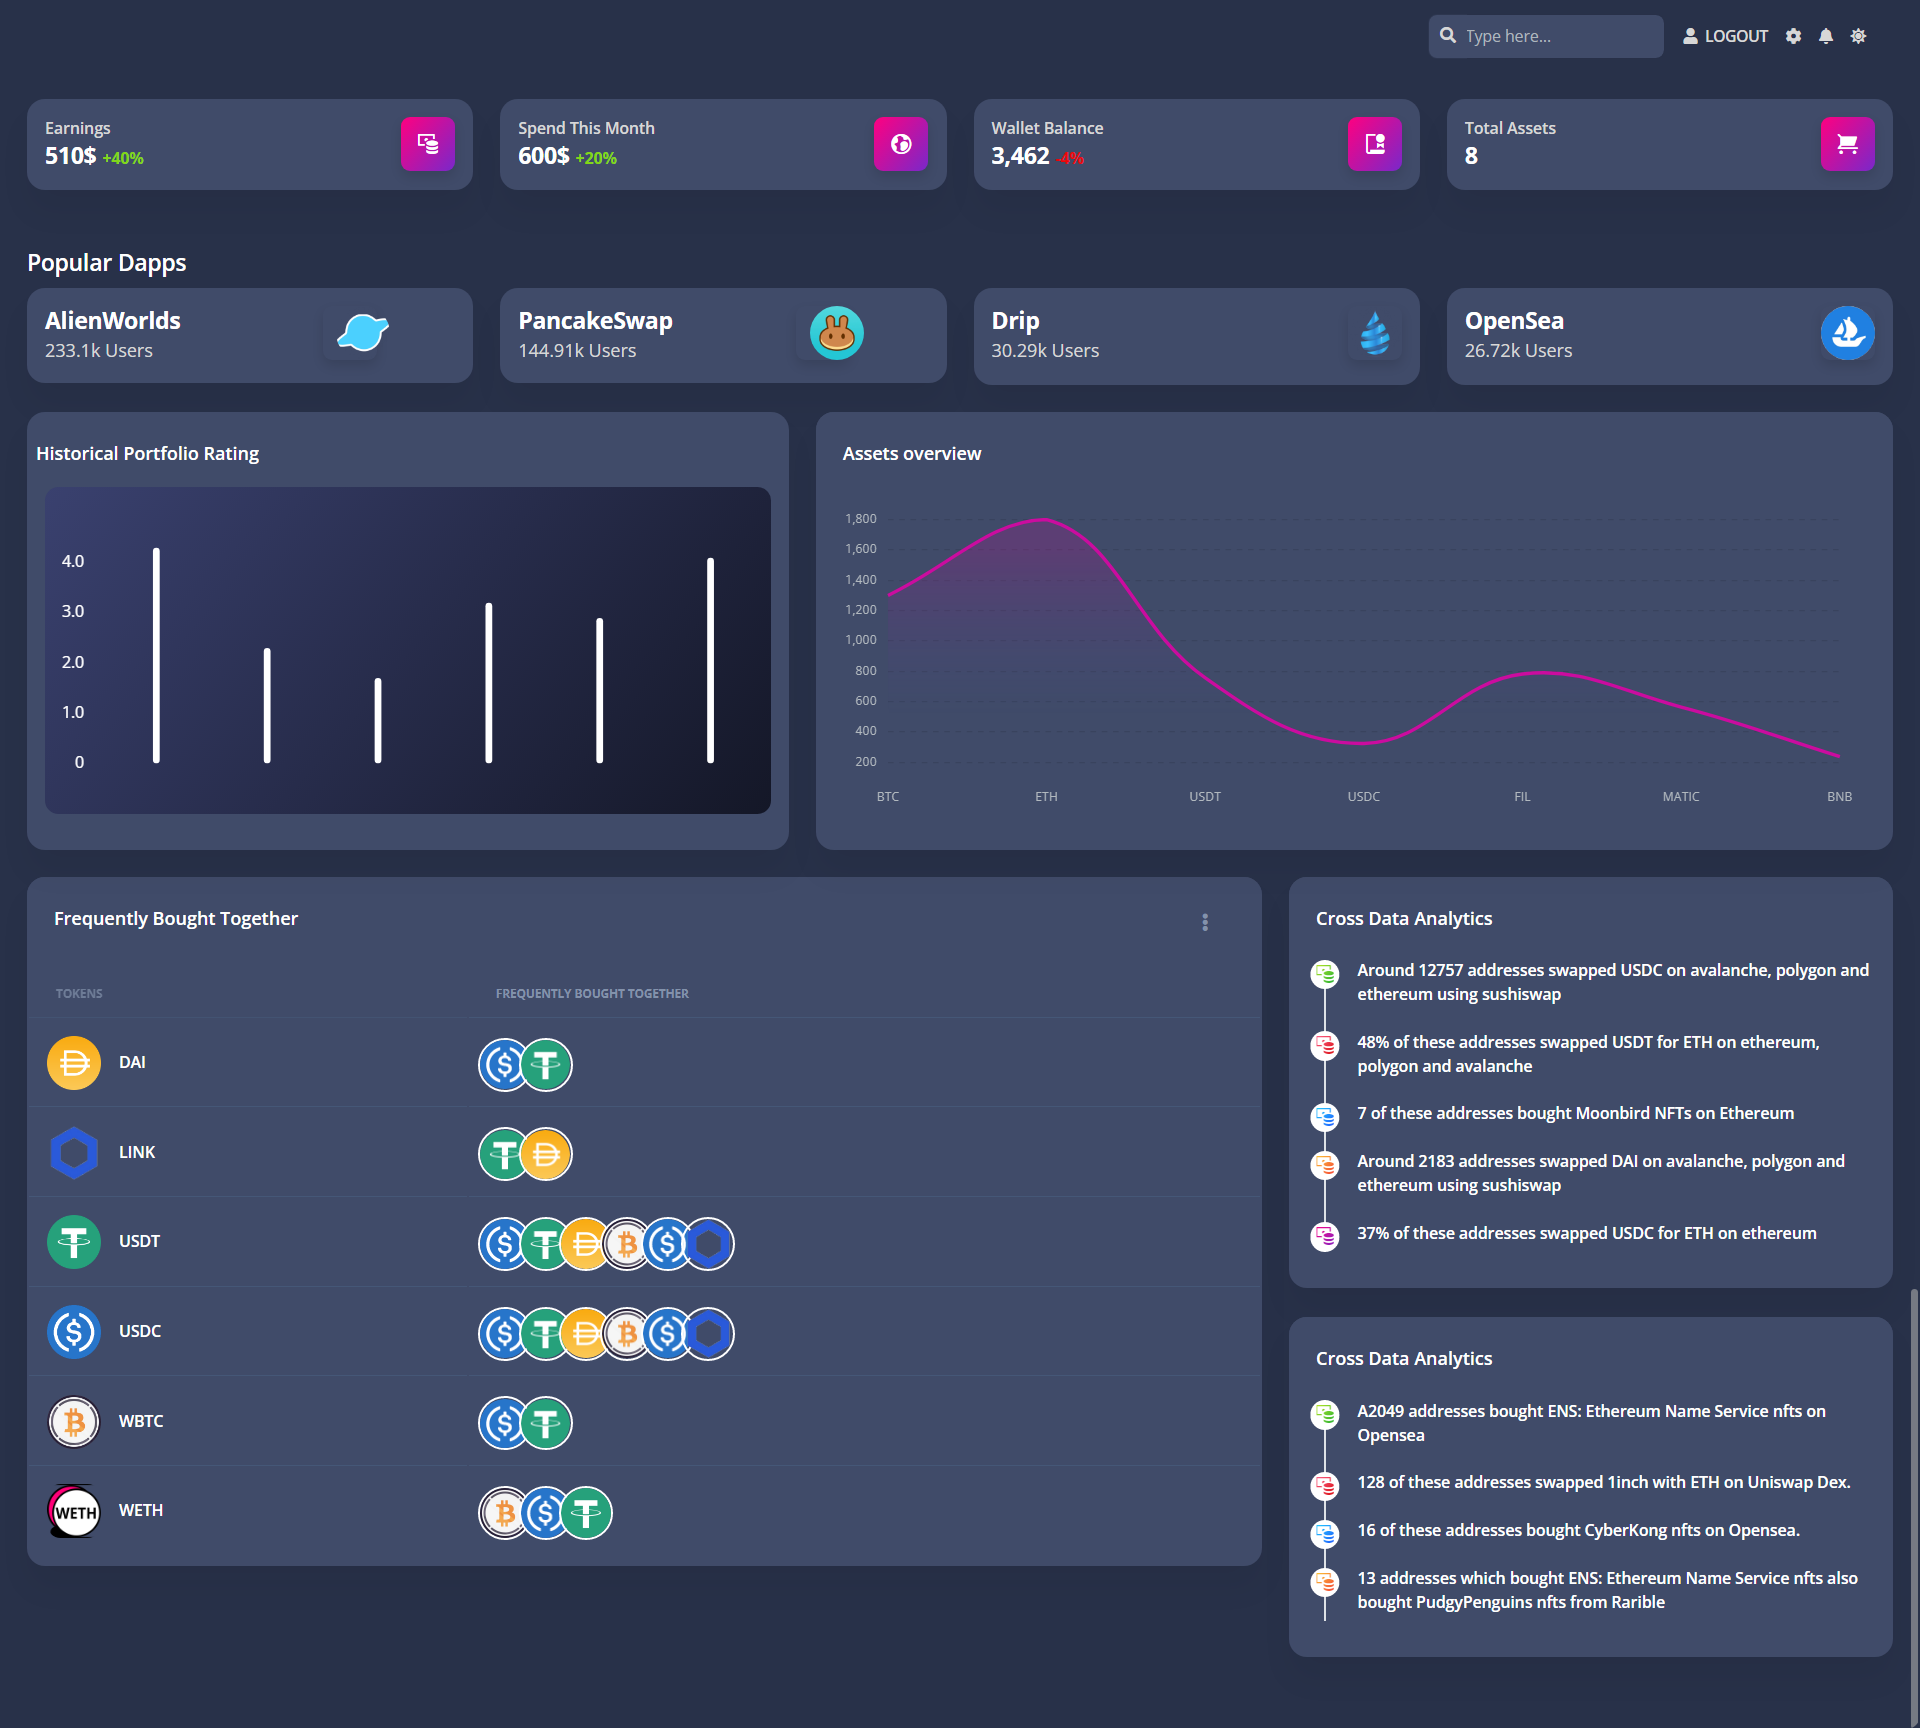
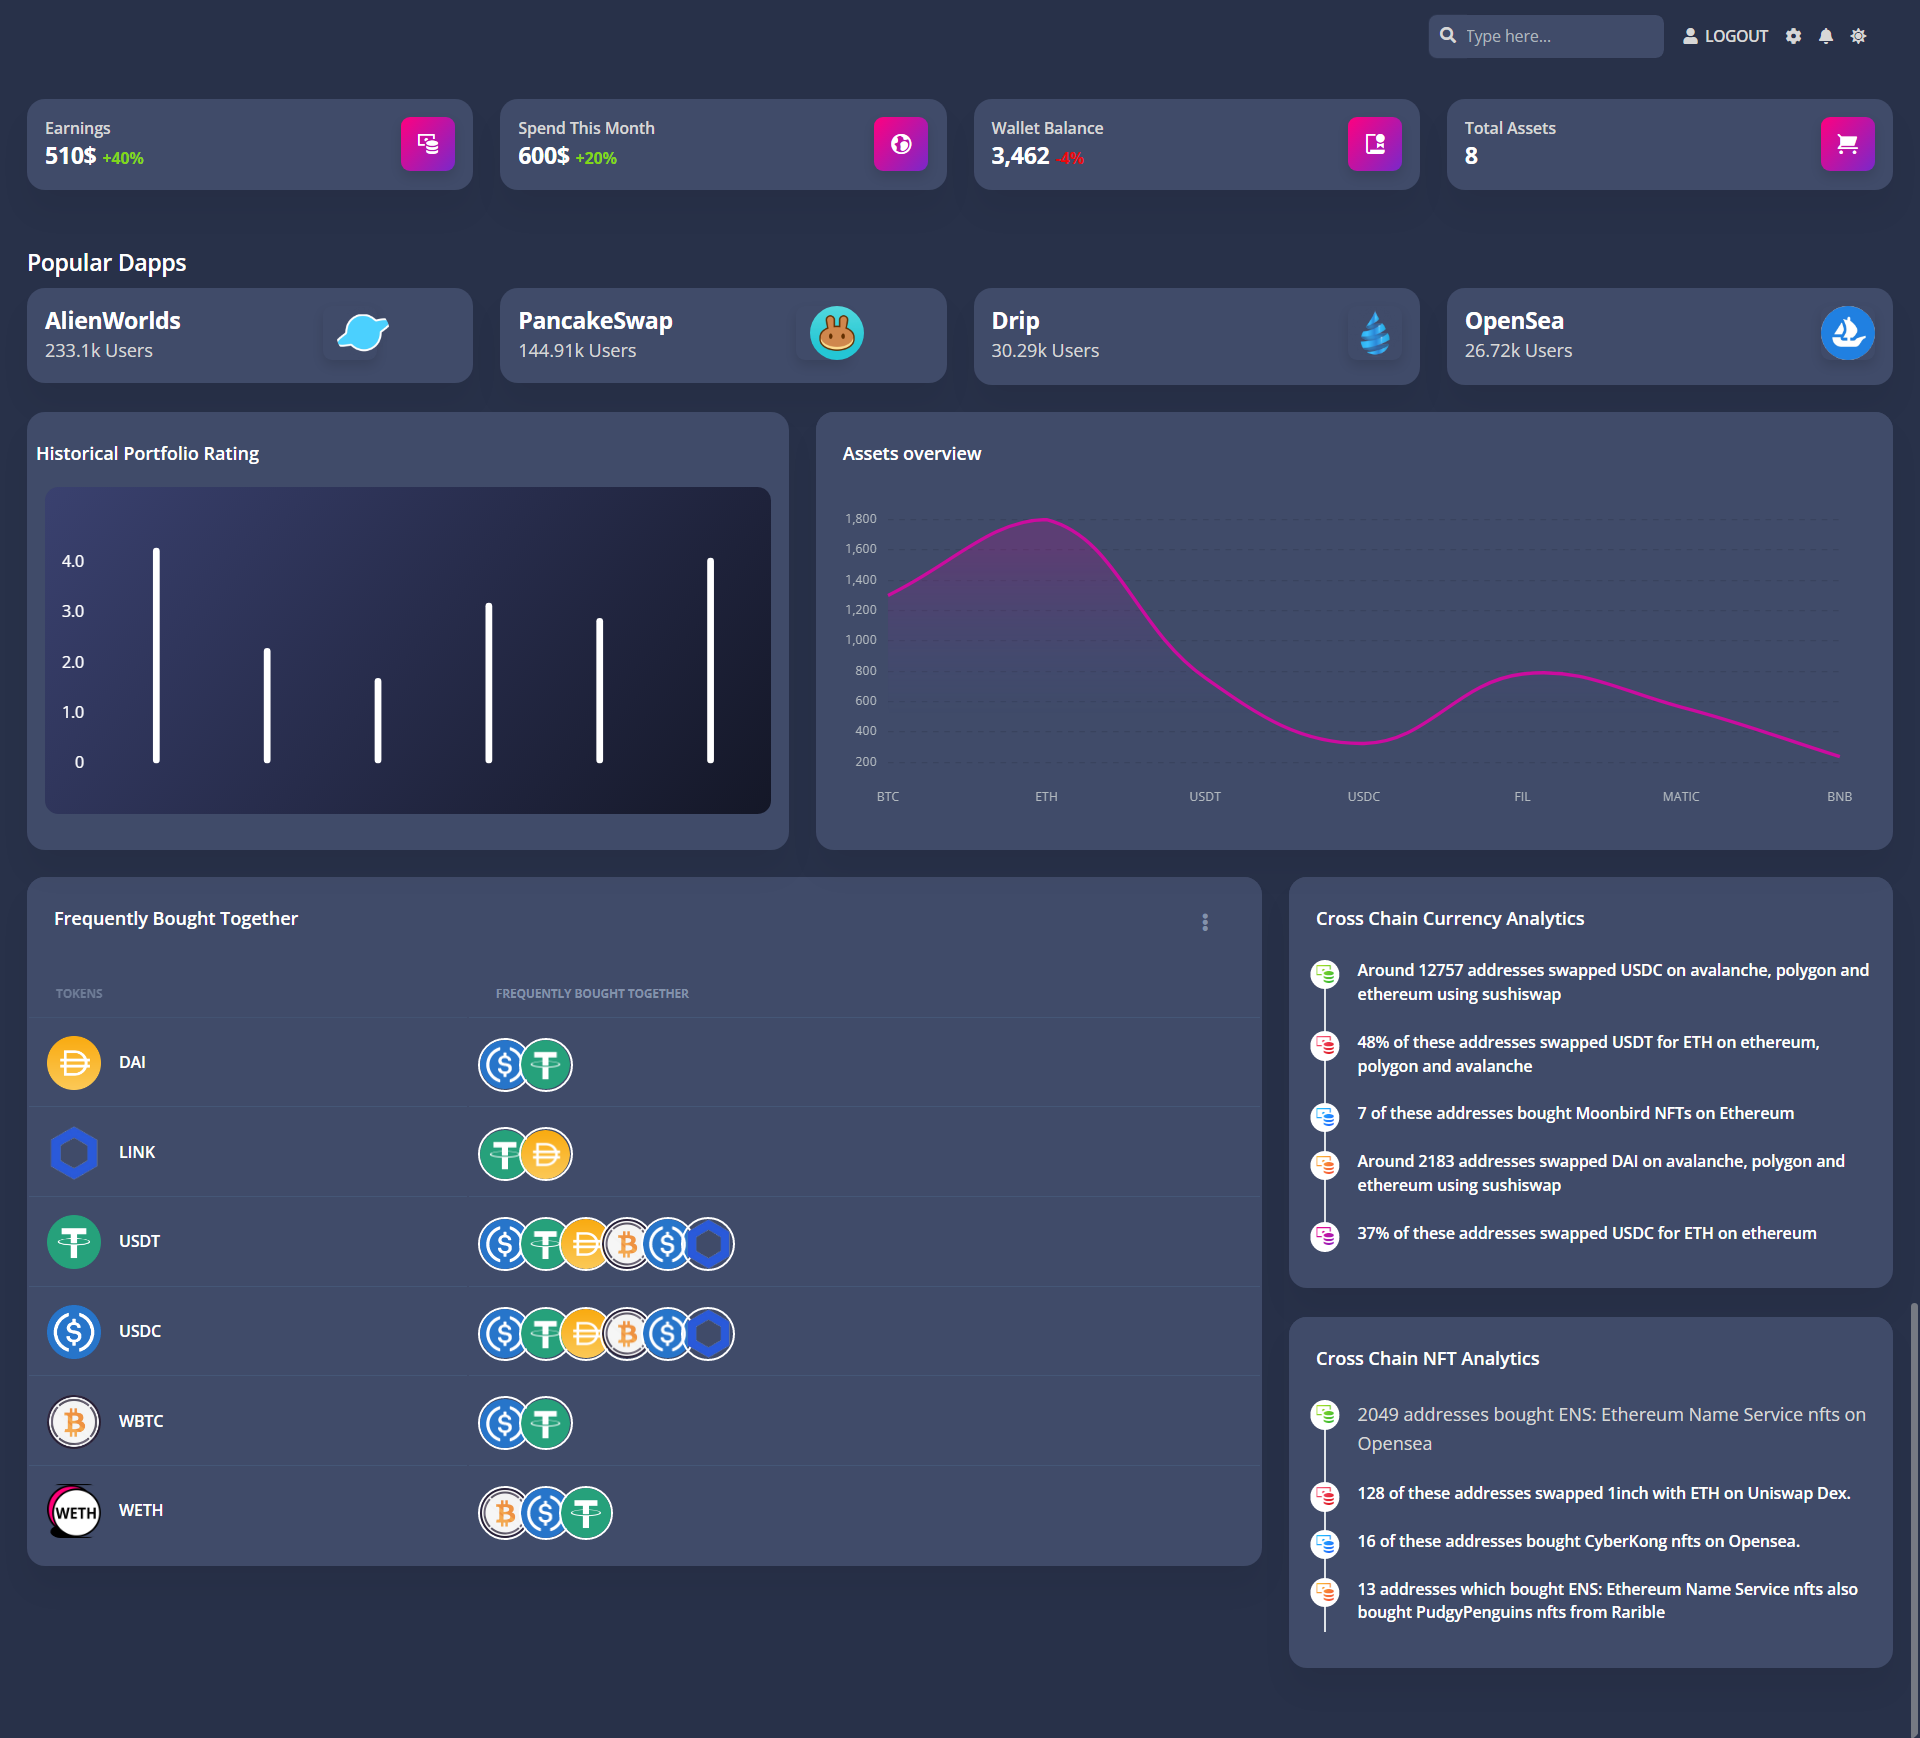
added imgs

diff --git a/Dashboard/apps/templates/home/index.html b/Dashboard/apps/templates/home/index.html
@@ -436,7 +436,8 @@
     <div class="col-lg-4 col-md-4">
       <div class="card h-60">
         <div class="card-header pb-0">
-          <h6>Cross Data Analytics</h6>
+          <h6>Cross Chain Currency Analytics</h6>
+
 
         </div>
         <div class="card-body p-3">
@@ -503,7 +504,7 @@
 
       <div class="card h-60">
         <div class="card-header pb-0">
-          <h6>Cross Data Analytics</h6>
+          <h6>Cross Chain NFT Analytics</h6>
 
         </div>
         <div class="card-body p-3">
@@ -513,9 +514,9 @@
                 <i class="ni ni-money-coins text-success text-gradient"></i>
               </span>
               <div class="timeline-content">
-                <h6 class="text-dark text-sm font-weight-bold mb-0">A2049 addresses bought ENS: Ethereum Name Service
-                  nfts on Opensea
-                </h6>
+                <h6 class="text-dark text-sm font-weight-bold mb-0"></h6>2049 addresses bought ENS: Ethereum Name
+                Service
+                nfts on Opensea </h6>
 
               </div>
             </div>
